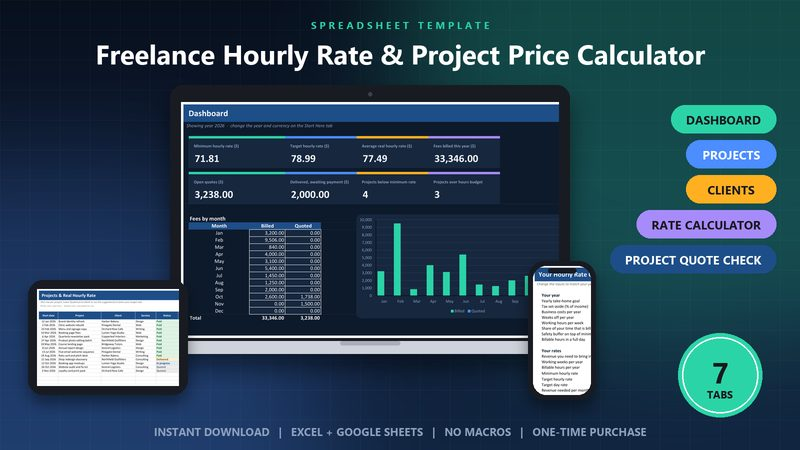
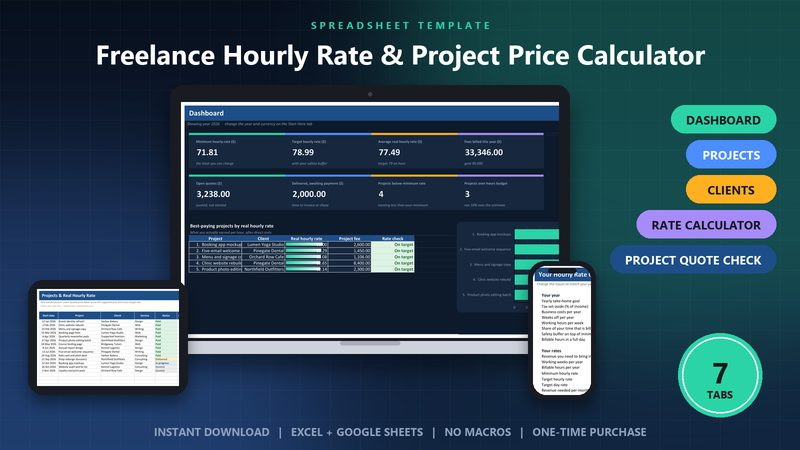
Update site 2026-11-04T19:42:46

diff --git a/templates/freelance-hourly-rate-project-price-calculator/index.html b/templates/freelance-hourly-rate-project-price-calculator/index.html
@@ -6,6 +6,6 @@
 <header class="top"><div class="in"><a class="brand" href="/"><img src="/img/logo.png" alt="">TidyDesk Studio</a>
 <div class="search"><input id="q" type="search" placeholder="Search templates and guides..." aria-label="Search templates and guides" autocomplete="off"><div class="res" id="res"></div></div>
 <nav><a href="/">Guides</a><a href="/templates/">Templates</a></nav></div></header>
-<div class="wrap"><article><p class="meta"><a href="/templates/">Templates</a></p><h1>Freelance Hourly Rate &amp; Project Price Calculator</h1><p style="font-size:20px;color:var(--muted)">Work out the hourly rate you actually need, then price every project from it and check what each job really paid.</p><div class="btns" style="margin:14px 0 6px"><a class="btn" href="https://tidydeskstudio.gumroad.com/l/freelance-hourly-rate-project-price-calculator">Get it on Gumroad</a></div><img class="hero-img" src="/img/products/TD-0051-cover.jpg" alt="Freelance Hourly Rate &amp; Project Price Calculator"><p>Most freelancers set their rate by guessing, or by copying what someone else charges. Then a project runs over, the revisions pile up and the real hourly rate quietly drops below what you need to live on.</p><p>This spreadsheet starts with your own numbers: the take-home you want, tax set-aside, business costs, weeks off and billable hours. It works out a minimum and a target hourly rate, suggests a price for every project, and after the job shows the real hourly rate once actual hours and costs are in. It is a planning and record-keeping tool, not tax or financial advice.</p><h2>What it does</h2><ul><li>Rate Calculator that turns your income goal, costs, weeks off and billable hours into a minimum and a target hourly rate</li><li>Day rate and monthly revenue target worked out for you</li><li>Projects tab with suggested price from your target rate, or type the price you quoted</li><li>Real hourly rate per project after direct costs, flagged Below minimum, Under target or On target</li><li>Over-budget hours warning when a job runs more than 10 percent long</li><li>Project Quote Check for new enquiries: revision rounds, price at target, and a verdict on the client&#x27;s budget</li><li>Clients tab with fees billed and average real rate for each client</li><li>Dashboard with fees, open quotes, money awaiting payment and charts by month, service and client</li></ul><img class="hero-img" src="/img/products/TD-0051-1.jpg" alt="Freelance Hourly Rate &amp; Project Price Calculator preview 1" loading="lazy"><img class="hero-img" src="/img/products/TD-0051-2.jpg" alt="Freelance Hourly Rate &amp; Project Price Calculator preview 2" loading="lazy"><img class="hero-img" src="/img/products/TD-0051-3.jpg" alt="Freelance Hourly Rate &amp; Project Price Calculator preview 3" loading="lazy"><img class="hero-img" src="/img/products/TD-0051-4.jpg" alt="Freelance Hourly Rate &amp; Project Price Calculator preview 4" loading="lazy"><h2>What you get</h2><ul><li>Freelance Hourly Rate &amp; Project Price Calculator (.xlsx)</li><li>Quick Start Guide (PDF)</li></ul><p><strong>Works with:</strong> Microsoft Excel 2016 or newer and Google Sheets. No macros.</p><div class="cta"><div class="t"><h3>Ready to use it?</h3><p>Instant download - sample data included so you can see how it works.</p><div class="btns"><a class="btn" href="https://tidydeskstudio.gumroad.com/l/freelance-hourly-rate-project-price-calculator">Get it on Gumroad</a></div></div></div></article></div>
+<div class="wrap"><article><p class="meta"><a href="/templates/">Templates</a></p><h1>Freelance Hourly Rate &amp; Project Price Calculator</h1><p style="font-size:20px;color:var(--muted)">Work out the hourly rate you actually need, then price every project from it and check what each job really paid.</p><div class="btns" style="margin:14px 0 6px"><a class="btn" href="https://tidydeskstudio.gumroad.com/l/freelance-hourly-rate-project-price-calculator">Get it on Gumroad</a></div><img class="hero-img" src="/img/products/TD-0051-cover.jpg" alt="Freelance Hourly Rate &amp; Project Price Calculator"><p>Most freelancers set their rate by guessing, or by copying what someone else charges. Then a project runs over, the revisions pile up and the real hourly rate quietly drops below what you need to live on.</p><p>This spreadsheet starts with your own numbers: the take-home you want, tax set-aside, business costs, weeks off and billable hours. It works out a minimum and a target hourly rate, suggests a price for every project, and after the job shows the real hourly rate once actual hours and costs are in. It is a planning and record-keeping tool, not tax or financial advice.</p><h2>What it does</h2><ul><li>Rate calculator that turns your income goal, costs, tax set-aside and time off into minimum and target hourly and day rates</li><li>Project quote checker: price at your target rate, lowest acceptable price and a verdict against the client&#x27;s budget</li><li>Dashboard with a best-paying-projects leaderboard, goal progress bars, an attention list and an unpaid-work list</li><li>Real hourly rate for every project after direct costs, flagged On target, Under target or Below minimum</li><li>Hours check against your estimate, so scope creep shows up straight away</li><li>Fees heatmap by service and month, a rate-health ring and a pipeline from Quoted to Paid</li><li>Client tab with fees billed, hours and average real rate per client</li><li>Monthly and per-client charts, dropdowns and sample data included</li></ul><img class="hero-img" src="/img/products/TD-0051-1.jpg" alt="Freelance Hourly Rate &amp; Project Price Calculator preview 1" loading="lazy"><img class="hero-img" src="/img/products/TD-0051-2.jpg" alt="Freelance Hourly Rate &amp; Project Price Calculator preview 2" loading="lazy"><img class="hero-img" src="/img/products/TD-0051-3.jpg" alt="Freelance Hourly Rate &amp; Project Price Calculator preview 3" loading="lazy"><img class="hero-img" src="/img/products/TD-0051-4.jpg" alt="Freelance Hourly Rate &amp; Project Price Calculator preview 4" loading="lazy"><img class="hero-img" src="/img/products/TD-0051-5.jpg" alt="Freelance Hourly Rate &amp; Project Price Calculator preview 5" loading="lazy"><img class="hero-img" src="/img/products/TD-0051-6.jpg" alt="Freelance Hourly Rate &amp; Project Price Calculator preview 6" loading="lazy"><img class="hero-img" src="/img/products/TD-0051-7.jpg" alt="Freelance Hourly Rate &amp; Project Price Calculator preview 7" loading="lazy"><img class="hero-img" src="/img/products/TD-0051-8.jpg" alt="Freelance Hourly Rate &amp; Project Price Calculator preview 8" loading="lazy"><img class="hero-img" src="/img/products/TD-0051-9.jpg" alt="Freelance Hourly Rate &amp; Project Price Calculator preview 9" loading="lazy"><img class="hero-img" src="/img/products/TD-0051-10.jpg" alt="Freelance Hourly Rate &amp; Project Price Calculator preview 10" loading="lazy"><h2>What you get</h2><ul><li>Freelance Hourly Rate &amp; Project Price Calculator (.xlsx)</li><li>Quick Start Guide (PDF)</li></ul><p><strong>Works with:</strong> Microsoft Excel 2016 or newer and Google Sheets. No macros.</p><div class="cta"><div class="t"><h3>Ready to use it?</h3><p>Instant download - sample data included so you can see how it works.</p><div class="btns"><a class="btn" href="https://tidydeskstudio.gumroad.com/l/freelance-hourly-rate-project-price-calculator">Get it on Gumroad</a></div></div></div></article></div>
 <footer>TidyDesk Studio · Ready-to-use spreadsheet templates for small businesses and busy households ·
 <a href="https://tidydeskstudio.gumroad.com">Gumroad</a> · <a href="https://payhip.com/TidyDeskStudio">Get it on Payhip</a></footer></body></html>

diff --git a/templates/house-hunting-comparison-viewing-scorecard/index.html b/templates/house-hunting-comparison-viewing-scorecard/index.html
@@ -6,6 +6,6 @@
 <header class="top"><div class="in"><a class="brand" href="/"><img src="/img/logo.png" alt="">TidyDesk Studio</a>
 <div class="search"><input id="q" type="search" placeholder="Search templates and guides..." aria-label="Search templates and guides" autocomplete="off"><div class="res" id="res"></div></div>
 <nav><a href="/">Guides</a><a href="/templates/">Templates</a></nav></div></header>
-<div class="wrap"><article><p class="meta"><a href="/templates/">Templates</a></p><h1>House Hunting Comparison &amp; Viewing Scorecard</h1><p style="font-size:20px;color:var(--muted)">After ten viewings they all blur together. Score every home on what matters to you and compare them fairly.</p><div class="btns" style="margin:14px 0 6px"><a class="btn" href="https://tidydeskstudio.gumroad.com/l/house-hunting-comparison-viewing-scorecard">Get it on Gumroad</a></div><img class="hero-img" src="/img/products/TD-0052-cover.jpg" alt="House Hunting Comparison &amp; Viewing Scorecard"><p>House hunting gets confusing fast. By the fifth viewing you are mixing up kitchens, forgetting which one had the damp and arguing about gut feelings. A scorecard keeps the decision about what you actually decided matters.</p><p>Set your weights once, then score each home from 1 to 10 straight after the viewing. The spreadsheet turns that into a fit score out of 100, estimates the monthly cost from your own deposit, rate and budget, flags homes that are over budget or fail a must-have, and shows your top three side by side. The monthly figures are estimates for comparing homes, not mortgage, legal or financial advice.</p><h2>What it does</h2><ul><li>Criteria tab where you weight what matters, from nice to have to essential</li><li>Viewing log with price, bedrooms, bathrooms, fees, notes and six scores per home</li><li>Fit score out of 100 and rank for every home, weighted by your own priorities</li><li>Estimated monthly cost using your deposit, interest rate, loan length, tax, insurance and upkeep</li><li>Budget check: Within budget, Near limit or Over budget against your monthly maximum</li><li>Verdicts: Top pick, Worth a second look, Low fit, Over budget or Dealbreaker</li><li>Top 3 tab with your best homes side by side</li><li>Questions-to-ask checklist for every viewing, and a dashboard with charts by month, area and type</li></ul><img class="hero-img" src="/img/products/TD-0052-1.jpg" alt="House Hunting Comparison &amp; Viewing Scorecard preview 1" loading="lazy"><img class="hero-img" src="/img/products/TD-0052-2.jpg" alt="House Hunting Comparison &amp; Viewing Scorecard preview 2" loading="lazy"><img class="hero-img" src="/img/products/TD-0052-3.jpg" alt="House Hunting Comparison &amp; Viewing Scorecard preview 3" loading="lazy"><h2>What you get</h2><ul><li>House Hunting Comparison &amp; Viewing Scorecard (.xlsx)</li><li>Quick Start Guide (PDF)</li></ul><p><strong>Works with:</strong> Microsoft Excel 2016 or newer and Google Sheets. No macros.</p><div class="cta"><div class="t"><h3>Ready to use it?</h3><p>Instant download - sample data included so you can see how it works.</p><div class="btns"><a class="btn" href="https://tidydeskstudio.gumroad.com/l/house-hunting-comparison-viewing-scorecard">Get it on Gumroad</a></div></div></div></article></div>
+<div class="wrap"><article><p class="meta"><a href="/templates/">Templates</a></p><h1>House Hunting Comparison &amp; Viewing Scorecard</h1><p style="font-size:20px;color:var(--muted)">After ten viewings they all blur together. Score every home on what matters to you and compare them fairly.</p><div class="btns" style="margin:14px 0 6px"><a class="btn" href="https://tidydeskstudio.gumroad.com/l/house-hunting-comparison-viewing-scorecard">Get it on Gumroad</a></div><img class="hero-img" src="/img/products/TD-0052-cover.jpg" alt="House Hunting Comparison &amp; Viewing Scorecard"><p>House hunting gets confusing fast. By the fifth viewing you are mixing up kitchens, forgetting which one had the damp and arguing about gut feelings. A scorecard keeps the decision about what you actually decided matters.</p><p>Set your weights once, then score each home from 1 to 10 straight after the viewing. The spreadsheet turns that into a fit score out of 100, estimates the monthly cost from your own deposit, rate and budget, flags homes that are over budget or fail a must-have, and shows your top three side by side. The monthly figures are estimates for comparing homes, not mortgage, legal or financial advice.</p><h2>What it does</h2><ul><li>Dashboard with a Top 5 leaderboard, search-progress bars, a watch list and a viewings heatmap</li><li>Criteria tab where you weight what matters, from nice to have to essential</li><li>Viewing log with price, bedrooms, bathrooms, fees, notes and six scores per home</li><li>Fit score out of 100 and rank for every home, weighted by your own priorities</li><li>Estimated monthly cost using your deposit, interest rate, loan length, tax, insurance and upkeep</li><li>Budget check: Within budget, Near limit or Over budget against your monthly maximum</li><li>Verdicts: Top pick, Worth a second look, Low fit, Over budget or Dealbreaker</li><li>Top 3 tab, a questions-to-ask checklist with a completion ring, and a pipeline view by home status</li></ul><img class="hero-img" src="/img/products/TD-0052-1.jpg" alt="House Hunting Comparison &amp; Viewing Scorecard preview 1" loading="lazy"><img class="hero-img" src="/img/products/TD-0052-2.jpg" alt="House Hunting Comparison &amp; Viewing Scorecard preview 2" loading="lazy"><img class="hero-img" src="/img/products/TD-0052-3.jpg" alt="House Hunting Comparison &amp; Viewing Scorecard preview 3" loading="lazy"><img class="hero-img" src="/img/products/TD-0052-4.jpg" alt="House Hunting Comparison &amp; Viewing Scorecard preview 4" loading="lazy"><img class="hero-img" src="/img/products/TD-0052-5.jpg" alt="House Hunting Comparison &amp; Viewing Scorecard preview 5" loading="lazy"><img class="hero-img" src="/img/products/TD-0052-6.jpg" alt="House Hunting Comparison &amp; Viewing Scorecard preview 6" loading="lazy"><img class="hero-img" src="/img/products/TD-0052-7.jpg" alt="House Hunting Comparison &amp; Viewing Scorecard preview 7" loading="lazy"><img class="hero-img" src="/img/products/TD-0052-8.jpg" alt="House Hunting Comparison &amp; Viewing Scorecard preview 8" loading="lazy"><img class="hero-img" src="/img/products/TD-0052-9.jpg" alt="House Hunting Comparison &amp; Viewing Scorecard preview 9" loading="lazy"><img class="hero-img" src="/img/products/TD-0052-10.jpg" alt="House Hunting Comparison &amp; Viewing Scorecard preview 10" loading="lazy"><h2>What you get</h2><ul><li>House Hunting Comparison &amp; Viewing Scorecard (.xlsx)</li><li>Quick Start Guide (PDF)</li></ul><p><strong>Works with:</strong> Microsoft Excel 2016 or newer and Google Sheets. No macros.</p><div class="cta"><div class="t"><h3>Ready to use it?</h3><p>Instant download - sample data included so you can see how it works.</p><div class="btns"><a class="btn" href="https://tidydeskstudio.gumroad.com/l/house-hunting-comparison-viewing-scorecard">Get it on Gumroad</a></div></div></div></article></div>
 <footer>TidyDesk Studio · Ready-to-use spreadsheet templates for small businesses and busy households ·
 <a href="https://tidydeskstudio.gumroad.com">Gumroad</a> · <a href="https://payhip.com/TidyDeskStudio">Get it on Payhip</a></footer></body></html>

diff --git a/templates/personal-chef-meal-prep-client-menu-grocery-tracker/index.html b/templates/personal-chef-meal-prep-client-menu-grocery-tracker/index.html
@@ -6,6 +6,6 @@
 <header class="top"><div class="in"><a class="brand" href="/"><img src="/img/logo.png" alt="">TidyDesk Studio</a>
 <div class="search"><input id="q" type="search" placeholder="Search templates and guides..." aria-label="Search templates and guides" autocomplete="off"><div class="res" id="res"></div></div>
 <nav><a href="/">Guides</a><a href="/templates/">Templates</a></nav></div></header>
-<div class="wrap"><article><p class="meta"><a href="/templates/">Templates</a></p><h1>Personal Chef Client, Menu &amp; Grocery Cost Tracker</h1><p style="font-size:20px;color:var(--muted)">Track clients, plan weekly menus, log grocery receipts and see what every cooking day really earned.</p><div class="btns" style="margin:14px 0 6px"><a class="btn" href="https://tidydeskstudio.gumroad.com/l/personal-chef-meal-prep-client-menu-grocery-tracker">Get it on Gumroad</a></div><img class="hero-img" src="/img/products/TD-0053-cover.jpg" alt="Personal Chef Client, Menu &amp; Grocery Cost Tracker"><p>Running a personal chef or meal-prep business means remembering that one client hates mushrooms, another wants lunchbox food, and that last week&#x27;s shop cost more than you charged. Notes in your phone and receipts in a bag do not add up to a profit figure.</p><p>This spreadsheet keeps a profile for every client, a weekly menu planner, a grocery receipt log and a list of cooking days. Groceries are matched to each service by client and date, your own time is costed at your hourly rate, and every cooking day shows its profit, margin and cost per serving with a flag when it is thin. Dietary notes are record-keeping only, not nutrition or medical advice.</p><h2>What it does</h2><ul><li>Client profiles with likes, dislikes, household size and notes exactly as the client told you</li><li>Weekly menu planner with servings, estimated cost per serving and a dislikes-checked reminder</li><li>Grocery receipt log by store and category, matched to each client&#x27;s cooking day</li><li>Cooking-day log with price charged, hours, travel and supplies</li><li>Automatic labour cost from your hourly rate, plus cost per serving</li><li>Profit and margin per service with Healthy, Thin margin and Losing money flags</li><li>Client table showing revenue, profit and margin for each client</li><li>Dashboard with revenue, profit, grocery spend, payments waiting and charts by month, client and category</li></ul><img class="hero-img" src="/img/products/TD-0053-1.jpg" alt="Personal Chef Client, Menu &amp; Grocery Cost Tracker preview 1" loading="lazy"><img class="hero-img" src="/img/products/TD-0053-2.jpg" alt="Personal Chef Client, Menu &amp; Grocery Cost Tracker preview 2" loading="lazy"><img class="hero-img" src="/img/products/TD-0053-3.jpg" alt="Personal Chef Client, Menu &amp; Grocery Cost Tracker preview 3" loading="lazy"><h2>What you get</h2><ul><li>Personal Chef Client, Menu &amp; Grocery Cost Tracker (.xlsx)</li><li>Quick Start Guide (PDF)</li></ul><p><strong>Works with:</strong> Microsoft Excel 2016 or newer and Google Sheets. No macros.</p><div class="cta"><div class="t"><h3>Ready to use it?</h3><p>Instant download - sample data included so you can see how it works.</p><div class="btns"><a class="btn" href="https://tidydeskstudio.gumroad.com/l/personal-chef-meal-prep-client-menu-grocery-tracker">Get it on Gumroad</a></div></div></div></article></div>
+<div class="wrap"><article><p class="meta"><a href="/templates/">Templates</a></p><h1>Personal Chef Client, Menu &amp; Grocery Cost Tracker</h1><p style="font-size:20px;color:var(--muted)">Track clients, plan weekly menus, log grocery receipts and see what every cooking day really earned.</p><div class="btns" style="margin:14px 0 6px"><a class="btn" href="https://tidydeskstudio.gumroad.com/l/personal-chef-meal-prep-client-menu-grocery-tracker">Get it on Gumroad</a></div><img class="hero-img" src="/img/products/TD-0053-cover.jpg" alt="Personal Chef Client, Menu &amp; Grocery Cost Tracker"><p>Running a personal chef or meal-prep business means remembering that one client hates mushrooms, another wants lunchbox food, and that last week&#x27;s shop cost more than you charged. Notes in your phone and receipts in a bag do not add up to a profit figure.</p><p>This spreadsheet keeps a profile for every client, a weekly menu planner, a grocery receipt log and a list of cooking days. Groceries are matched to each service by client and date, your own time is costed at your hourly rate, and every cooking day shows its profit, margin and cost per serving with a flag when it is thin. Dietary notes are record-keeping only, not nutrition or medical advice.</p><h2>What it does</h2><ul><li>Dashboard with a most-profitable-services leaderboard, goal progress bars and a money-to-chase list</li><li>Service log that works out groceries, labour, total cost, profit, margin and cost per serving for every job</li><li>Margin warnings for any service below your target margin, and a healthy-margin ring</li><li>Client tab with household size, likes, dislikes to avoid, revenue, profit and margin per client</li><li>Menu planner with dish cost and an alert list of dishes not yet checked against dislikes</li><li>Grocery log by store and category with a month-by-category spend heatmap</li><li>Pipeline view from Booked to Paid, plus monthly revenue, profit and grocery charts</li><li>Dropdowns, sample data and a Quick Start Guide included</li></ul><img class="hero-img" src="/img/products/TD-0053-1.jpg" alt="Personal Chef Client, Menu &amp; Grocery Cost Tracker preview 1" loading="lazy"><img class="hero-img" src="/img/products/TD-0053-2.jpg" alt="Personal Chef Client, Menu &amp; Grocery Cost Tracker preview 2" loading="lazy"><img class="hero-img" src="/img/products/TD-0053-3.jpg" alt="Personal Chef Client, Menu &amp; Grocery Cost Tracker preview 3" loading="lazy"><img class="hero-img" src="/img/products/TD-0053-4.jpg" alt="Personal Chef Client, Menu &amp; Grocery Cost Tracker preview 4" loading="lazy"><img class="hero-img" src="/img/products/TD-0053-5.jpg" alt="Personal Chef Client, Menu &amp; Grocery Cost Tracker preview 5" loading="lazy"><img class="hero-img" src="/img/products/TD-0053-6.jpg" alt="Personal Chef Client, Menu &amp; Grocery Cost Tracker preview 6" loading="lazy"><img class="hero-img" src="/img/products/TD-0053-7.jpg" alt="Personal Chef Client, Menu &amp; Grocery Cost Tracker preview 7" loading="lazy"><img class="hero-img" src="/img/products/TD-0053-8.jpg" alt="Personal Chef Client, Menu &amp; Grocery Cost Tracker preview 8" loading="lazy"><h2>What you get</h2><ul><li>Personal Chef Client, Menu &amp; Grocery Cost Tracker (.xlsx)</li><li>Quick Start Guide (PDF)</li></ul><p><strong>Works with:</strong> Microsoft Excel 2016 or newer and Google Sheets. No macros.</p><div class="cta"><div class="t"><h3>Ready to use it?</h3><p>Instant download - sample data included so you can see how it works.</p><div class="btns"><a class="btn" href="https://tidydeskstudio.gumroad.com/l/personal-chef-meal-prep-client-menu-grocery-tracker">Get it on Gumroad</a></div></div></div></article></div>
 <footer>TidyDesk Studio · Ready-to-use spreadsheet templates for small businesses and busy households ·
 <a href="https://tidydeskstudio.gumroad.com">Gumroad</a> · <a href="https://payhip.com/TidyDeskStudio">Get it on Payhip</a></footer></body></html>
